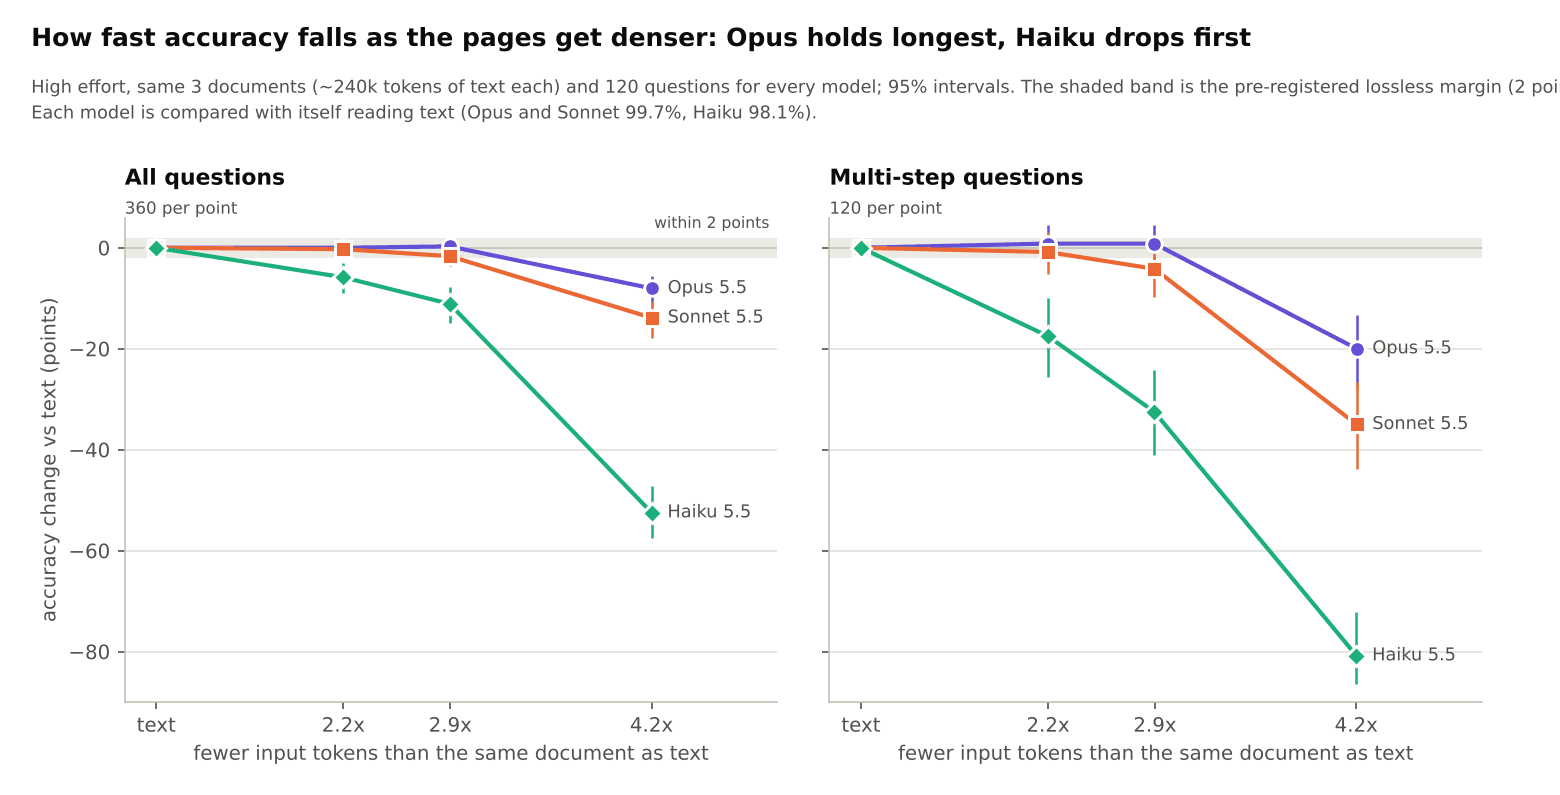
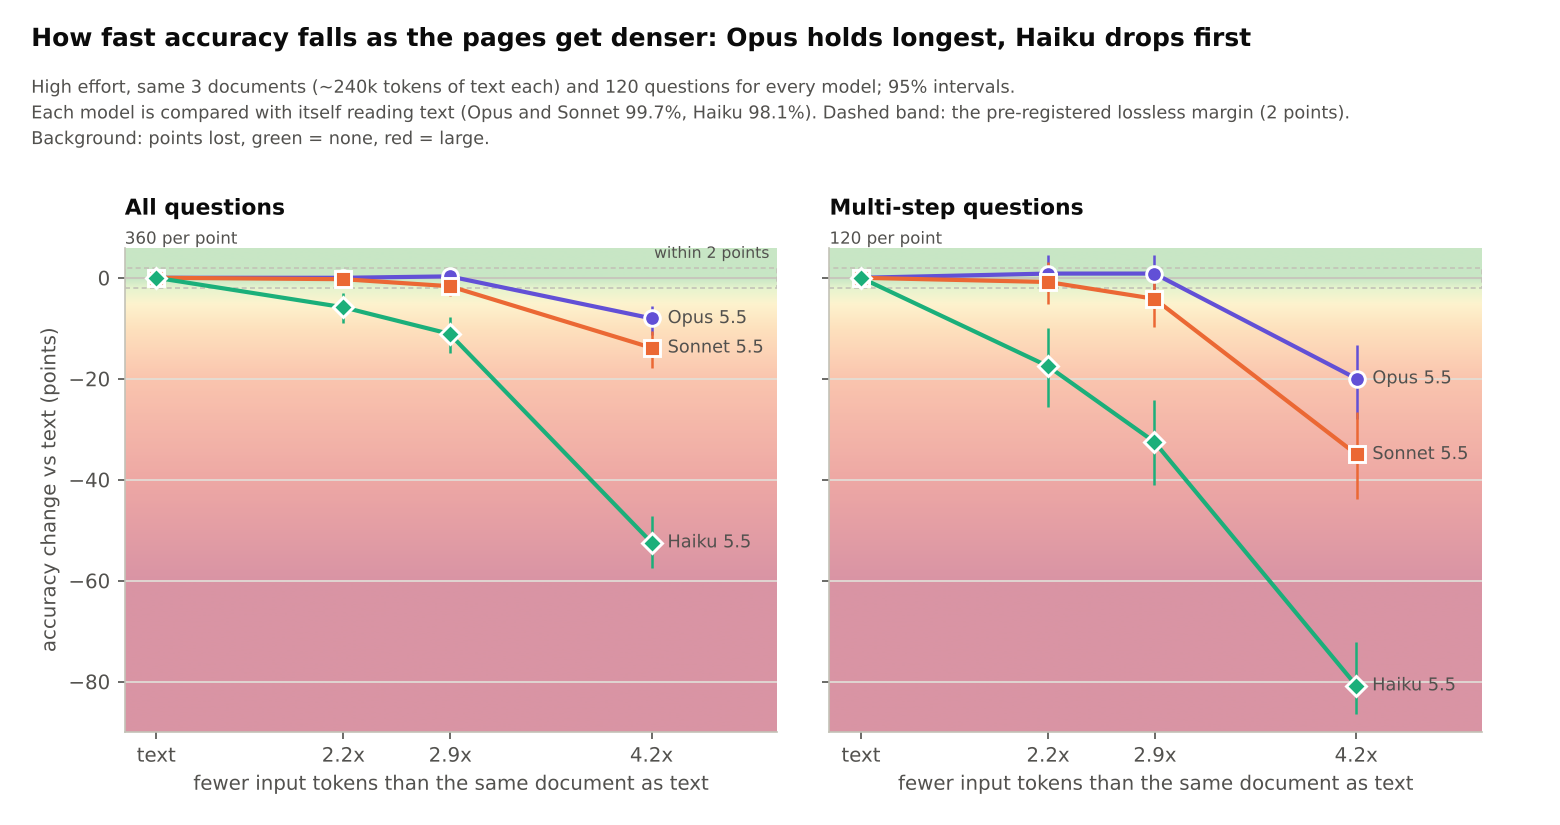
Claude QA figures: accuracy change on a continuous green -> yellow -> red scale (verdict and breakdown cells, a soft wash behind the curve and effort charts, colour-bar legend); dashed lossless band; wrapped subtitles that ran off the edge; captions updated
Claude-Session: https://claude.ai/code/session_01WVzSJ934fYhDkwG8gwoyMQ

diff --git a/scripts/make_claude_qa_figures.py b/scripts/make_claude_qa_figures.py
@@ -43,21 +43,22 @@ ALL_MODELS = {
 MODELS = {m: v for m, v in ALL_MODELS.items() if v["summary"].exists()}
 BUDGETS = [(117.6, "2.2x"), (88.2, "2.9x"), (58.8, "4.2x")]
 CACHE_WRITE = 1.25
-# "points lost" in 8 discrete bands of the validated sequential blue ramp (steps 100-700, near-surface tint for ~0).
-# Discrete bands: every cell matches a legend swatch exactly, and the 64-colour PNG cannot shift them.
-LOSS_RAMP = ["#f3f7fd", "#cde2fb", "#9ec5f4", "#6da7ec", "#3987e5", "#256abf", "#184f95", "#0d366b"]
-LOSS_EDGES = [2, 5, 10, 20, 30, 45, 60]          # band i covers [edge i-1, edge i)
-LOSS_LABELS = ["<2", "2-5", "5-10", "10-20", "20-30", "30-45", "45-60", "60+"]
+# "points lost" on a continuous green -> yellow -> red scale (user's choice). Anchors are evenly spaced on the scale
+# but not in points, so the small losses that decide the verdicts get most of the colour range. The red end is much
+# darker than the green end, and every cell prints its number, so the scale never carries meaning by hue alone.
+LOSS_STOPS = [(0, "#7cc576"), (2, "#c6e48b"), (5, "#fbe38b"), (10, "#fdb863"), (20, "#f4743f"), (40, "#d73027"),
+              (60, "#a50026")]
 NEUTRAL = "#f0efec"
 
 
-def save(fig, name: str) -> None:
-    """150 dpi PNG quantised to 256 colours (the discrete loss bands keep their exact shade)."""
+def save(fig, name: str, quantise: bool = True) -> None:
+    """150 dpi PNG, quantised to 256 colours unless it holds a colour gradient (quantising would band it)."""
     import io
     buf = io.BytesIO()
     fig.savefig(buf, dpi=150, format="png")
     buf.seek(0)
-    Image.open(buf).convert("RGB").quantize(256, method=Image.Quantize.MEDIANCUT).save(M.OUT / name, optimize=True)
+    im = Image.open(buf).convert("RGB")
+    (im.quantize(256, method=Image.Quantize.MEDIANCUT) if quantise else im).save(M.OUT / name, optimize=True)
 
 
 def header(fig, H_in: float, title: str, sub: str) -> None:
@@ -77,16 +78,26 @@ def summaries() -> dict:
     return {m: json.loads(v["summary"].read_text()) for m, v in MODELS.items()}
 
 
-def band(loss: float) -> int:
-    return int(np.searchsorted(LOSS_EDGES, max(0.0, loss), side="right"))
+def loss_pos(loss: float) -> float:
+    """Position 0..1 on the loss scale: piecewise linear between the anchors (gains count as 0, 60+ as 1)."""
+    xs = [a for a, _ in LOSS_STOPS]
+    return float(np.interp(max(0.0, loss), xs, np.linspace(0, 1, len(xs))))
 
 
-def loss_colour(loss: float) -> str:
-    return LOSS_RAMP[band(loss)]
+def loss_cmap():
+    from matplotlib.colors import LinearSegmentedColormap
+    return LinearSegmentedColormap.from_list("loss", [c for _, c in LOSS_STOPS], N=512)
+
+
+def loss_colour(loss: float) -> tuple:
+    return loss_cmap()(loss_pos(loss))
 
 
 def ink_on(loss: float) -> str:
-    return "#ffffff" if band(loss) >= 5 else M.INK_1      # white on steps 500-700 only
+    """Dark or white text, whichever has the higher contrast on that cell (WCAG relative luminance)."""
+    lin = [c / 12.92 if c <= 0.04045 else ((c + 0.055) / 1.055) ** 2.4 for c in loss_colour(loss)[:3]]
+    lum = 0.2126 * lin[0] + 0.7152 * lin[1] + 0.0722 * lin[2]
+    return "#ffffff" if 1.05 / (lum + 0.05) > (lum + 0.05) / 0.05 else M.INK_1
 
 
 def fmt_pts(v: float) -> str:
@@ -94,15 +105,30 @@ def fmt_pts(v: float) -> str:
 
 
 def loss_legend(fig, rect) -> None:
-    from matplotlib.patches import Rectangle
+    """A continuous colour bar with the anchors as ticks."""
     ax = fig.add_axes(rect)
-    for i, (c, lab) in enumerate(zip(LOSS_RAMP, LOSS_LABELS)):
-        ax.add_patch(Rectangle((i + 0.04, 0), 0.92, 1, facecolor=c, lw=0))
-        ax.text(i + 0.5, -0.35, lab, ha="center", va="top", fontsize=7.5, color=M.INK_2)
-    ax.set_xlim(0, len(LOSS_RAMP))
+    ax.imshow(np.linspace(0, 1, 512)[None, :], cmap=loss_cmap(), aspect="auto", extent=(0, 1, 0, 1))
+    for i, (a, _) in enumerate(LOSS_STOPS):
+        x = i / (len(LOSS_STOPS) - 1)
+        ax.plot([x, x], [0, -0.18], color=M.AXIS, lw=0.8, clip_on=False)
+        ax.text(x, -0.35, "0" if a == 0 else f"{a}+" if a == LOSS_STOPS[-1][0] else f"{a}", ha="center", va="top",
+                fontsize=7.5, color=M.INK_2)
+    ax.set_xlim(0, 1)
     ax.set_ylim(-1.4, 1)
     ax.axis("off")
-    ax.text(0, 1.25, "shading: accuracy points lost vs reading text", fontsize=8, color=M.INK_2, va="bottom")
+    ax.text(0, 1.25, "accuracy points lost vs reading text", fontsize=8, color=M.INK_2,
+            va="bottom")
+
+
+def loss_background(ax, lo: float, hi: float, vertical: bool) -> None:
+    """The loss scale as a soft wash behind a chart whose axis is the accuracy change (points, negative = loss)."""
+    v = np.linspace(hi, lo, 400)
+    img = np.array([loss_colour(-x) for x in v])[:, None, :] if vertical else \
+        np.array([loss_colour(-x) for x in v[::-1]])[None, :, :]
+    img[..., 3] = 0.42
+    ext = (*ax.get_xlim(), lo, hi) if vertical else (lo, hi, *ax.get_ylim())
+    ax.imshow(img, aspect="auto", extent=ext, origin="upper" if vertical else "lower", zorder=0,
+              interpolation="bilinear")
 
 
 # ------------------------------------------------------------------------------------------- 1. verdict
@@ -170,10 +196,10 @@ def fig_verdict():
             "is no text baseline.") if flagged else ""
     header(fig, H_in, "Reading page images instead of text: accuracy change in points (image − text)",
            "Same 3 documents (~240k tokens of text each) and 120 questions in every cell; columns: how many fewer input "
-           "tokens the pages use. Worst = the losing end of the 95% interval.\n✓ lossless (pre-registered): the worst "
-           "case is within 2 points." + note)
+           "tokens the pages use.\nWorst = the losing end of the 95% interval. ✓ lossless (pre-registered): the worst "
+           "case is within 2 points. Green = no loss, red = large loss.\n" + note.strip())
     loss_legend(fig, [0.70, 0.10 / H_in, 0.25, 0.16 / H_in])
-    save(fig, "claude_qa_verdict.png")
+    save(fig, "claude_qa_verdict.png", quantise=False)
     plt.close(fig)
     print("claude_qa_verdict.png")
 
@@ -288,11 +314,11 @@ def fig_breakdown():
     ax.set_ylim(y, -1.75)
     header(fig, H_in, "Where it breaks: chains and counts fail first, and smaller models fail at lower densities",
            "Accuracy per question type at high effort (questions per type in brackets, pooled over 3 documents). Grey "
-           "rows: the model reading text;\nblue rows: the same model reading pages with 2.2x, 2.9x and 4.2x fewer "
+           "rows: the model reading text;\ncoloured rows: the same model reading pages with 2.2x, 2.9x and 4.2x fewer "
            "tokens, shaded by points lost against its text row.\n'+1 q': pages got 1-2 more questions right than text "
            "(Opus counts: text answered 11 for 12 once). Within noise: no type is better read from pages.")
     loss_legend(fig, [0.70, 0.10 / H_in, 0.25, 0.16 / H_in])
-    save(fig, "claude_qa_breakdown.png")
+    save(fig, "claude_qa_breakdown.png", quantise=False)
     plt.close(fig)
     print("claude_qa_breakdown.png")
 
@@ -416,12 +442,14 @@ def fig_curve():
     questions and multi-step questions; 95% Newcombe intervals; the pre-registered +-2-point band shaded."""
     plt = M.chart_style()
     S = summaries()
-    H_in = 5.3
+    H_in = 5.5
     fig, axs = plt.subplots(1, 2, figsize=(10.4, H_in), dpi=150, sharey=True)
-    fig.subplots_adjust(left=0.08, right=0.95, top=1 - 1.45 / H_in, bottom=0.62 / H_in, wspace=0.08)
+    fig.subplots_adjust(left=0.08, right=0.95, top=1 - 1.65 / H_in, bottom=0.62 / H_in, wspace=0.08)
     for ax, (title, key, sub) in zip(axs, [("All questions", "text_minus_image", "360 per point"),
                                            ("Multi-step questions", "complex_text_minus_image", "120 per point")]):
-        ax.axhspan(-2, 2, color="#ebeae5", lw=0, zorder=0)
+        ax.set_xlim(0.8, 4.95)
+        loss_background(ax, -90, 6, vertical=True)
+        ax.axhspan(-2, 2, facecolor="none", edgecolor=M.AXIS, lw=0.8, ls=(0, (3, 2)), zorder=1)
         ax.axhline(0, color=M.AXIS, lw=0.8, zorder=1)
         for m, spec in MODELS.items():
             pts = sorted((r["saving"], r) for k, r in S[m].items() if k.startswith("high/") and "saving" in r)
@@ -443,16 +471,15 @@ def fig_curve():
         ax.set_axisbelow(True)
         ax.set_xlabel("fewer input tokens than the same document as text")
         x0 = ax.get_position().x0
-        fig.text(x0, 1 - 1.12 / H_in, title, ha="left", va="top", fontsize=10.5, fontweight="bold", color=M.INK_1)
-        fig.text(x0, 1 - 1.34 / H_in, sub, ha="left", va="top", fontsize=8, color=M.INK_2)
+        fig.text(x0, 1 - 1.32 / H_in, title, ha="left", va="top", fontsize=10.5, fontweight="bold", color=M.INK_1)
+        fig.text(x0, 1 - 1.54 / H_in, sub, ha="left", va="top", fontsize=8, color=M.INK_2)
     axs[0].set_ylabel("accuracy change vs text (points)")
     axs[0].text(4.9, 3.2, "within 2 points", ha="right", va="bottom", fontsize=7.5, color=M.INK_2)
     header(fig, H_in, "How fast accuracy falls as the pages get denser: Opus holds longest, Haiku drops first",
-           "High effort, same 3 documents (~240k tokens of text each) and 120 questions for every model; 95% intervals. "
-           "The shaded band is "
-           "the pre-registered lossless margin (2 points).\nEach model is compared with itself reading text "
-           "(Opus and Sonnet 99.7%, Haiku 98.1%).")
-    save(fig, "claude_qa_curve.png")
+           "High effort, same 3 documents (~240k tokens of text each) and 120 questions for every model; 95% intervals.\n"
+           "Each model is compared with itself reading text (Opus and Sonnet 99.7%, Haiku 98.1%). Dashed band: the "
+           "pre-registered lossless margin (2 points).\nBackground: points lost, green = none, red = large.")
+    save(fig, "claude_qa_curve.png", quantise=False)
     plt.close(fig)
     print("claude_qa_curve.png")
 
@@ -471,12 +498,14 @@ def fig_effort():
             y += 0.6
         ys.append(y)
         y += 1
-    H_in = 2.2 + 0.42 * y
+    H_in = 2.4 + 0.42 * y
     fig, axs = plt.subplots(1, 2, figsize=(10.4, H_in), dpi=150, sharey=True)
-    fig.subplots_adjust(left=0.2, right=0.97, top=1 - 1.6 / H_in, bottom=0.62 / H_in, wspace=0.1)
+    fig.subplots_adjust(left=0.2, right=0.97, top=1 - 1.8 / H_in, bottom=0.62 / H_in, wspace=0.1)
     for ax, (title, key) in zip(axs, [("All questions (360 per point)", "text_minus_image"),
                                       ("Multi-step questions (120 per point)", "complex_text_minus_image")]):
-        ax.axvspan(-2, 2, color="#ebeae5", lw=0, zorder=0)
+        ax.set_ylim(ys[-1] + 0.7, -0.7)
+        loss_background(ax, -52, 6, vertical=False)
+        ax.axvspan(-2, 2, facecolor="none", edgecolor=M.AXIS, lw=0.8, ls=(0, (3, 2)), zorder=1)
         ax.axvline(0, color=M.AXIS, lw=0.8, zorder=1)
         for yy, (m, b, lab) in zip(ys, rows):
             col = MODELS[m]["colour"]
@@ -492,7 +521,7 @@ def fig_effort():
         ax.spines["left"].set_visible(False)
         ax.tick_params(axis="y", length=0)
         x0 = ax.get_position().x0
-        fig.text(x0, 1 - 1.22 / H_in, title, ha="left", va="top", fontsize=10.5, fontweight="bold", color=M.INK_1)
+        fig.text(x0, 1 - 1.42 / H_in, title, ha="left", va="top", fontsize=10.5, fontweight="bold", color=M.INK_1)
     axs[0].set_yticks(ys, [f"{lab} pages" for _, _, lab in rows], fontsize=9)
     axs[0].set_ylim(ys[-1] + 0.7, -0.7)
     for m in ms:
@@ -507,9 +536,9 @@ def fig_effort():
         if skipped else ""
     header(fig, H_in, "High effort narrows the loss once the pages are dense",
            "Accuracy change vs the same model reading text, at low (hollow) and high (filled) effort; same documents "
-           "and questions. Shaded: within 2 points.\nAt 2.2x both efforts are within 0.3 points of text; the gap opens at "
+           "and questions.\nDashed band: within 2 points; background: points lost, green = none, red = large.\nAt 2.2x both efforts are within 0.3 points of text; the gap opens at "
            "2.9x and 4.2x." + note)
-    save(fig, "claude_qa_effort.png")
+    save(fig, "claude_qa_effort.png", quantise=False)
     plt.close(fig)
     print("claude_qa_effort.png")
 

diff --git a/docs/CLAUDE_QA.md b/docs/CLAUDE_QA.md
@@ -42,7 +42,7 @@ Sonnet 5.5 and Haiku 5.5.
 
 *How to read it:* each cell compares page images with text on the same 3 documents and questions. The big number is
 the accuracy change in points (image − text: negative = worse than text); "worst" is the losing end of the 95%
-interval; ✓ marks the pre-registered lossless verdict. Darker cells lose more. Numbers: [A1](#a1-opus-55),
+interval; ✓ marks the pre-registered lossless verdict. Colour runs from green (no loss) through yellow to red (large loss). Numbers: [A1](#a1-opus-55),
 [A2](#a2-sonnet-55) and [A3](#a3-haiku-55).
 
 ## How fast it falls
@@ -50,7 +50,8 @@ interval; ✓ marks the pre-registered lossless verdict. Darker cells lose more.
 ![Accuracy change against token saving, one line per model](img/claude_qa_curve.png)
 
 *How to read it:* each line starts at 0 (the model reading text) and shows the accuracy change as the pages get denser,
-at high effort; the grey band is the 2-point lossless margin.
+at high effort; the dashed band is the 2-point lossless margin, and the background runs from green (no loss)
+to red (large loss).
 
 * **By point estimate, Opus and Sonnet stay within 2 points up to 2.9x;** by the pre-registered worst case, Opus is
   lossless to 2.9x and Sonnet to 2.2x. Haiku leaves the band at the first step.
@@ -73,7 +74,7 @@ the exploratory runs that density failed outright ([A5](#a5-earlier-exploratory-
 ![Accuracy per question type, each model at high effort](img/claude_qa_breakdown.png)
 
 *How to read it:* columns are question types, one block of rows per model: the grey row is the model reading text,
-the blue rows the same model reading pages. Shading is points lost against the grey row. A small "+1 q" marks the
+the coloured rows the same model reading pages, from green (no loss against the grey row) to red. A small "+1 q" marks the
 four cells where pages got 1-2 more questions right than text; that is noise, not a gain (see the counts bullet).
 
 * **Lookups and sums survive the longest.** Opus keeps 98-100% on them even at 4.2x. (Sums and largest-of-three add
